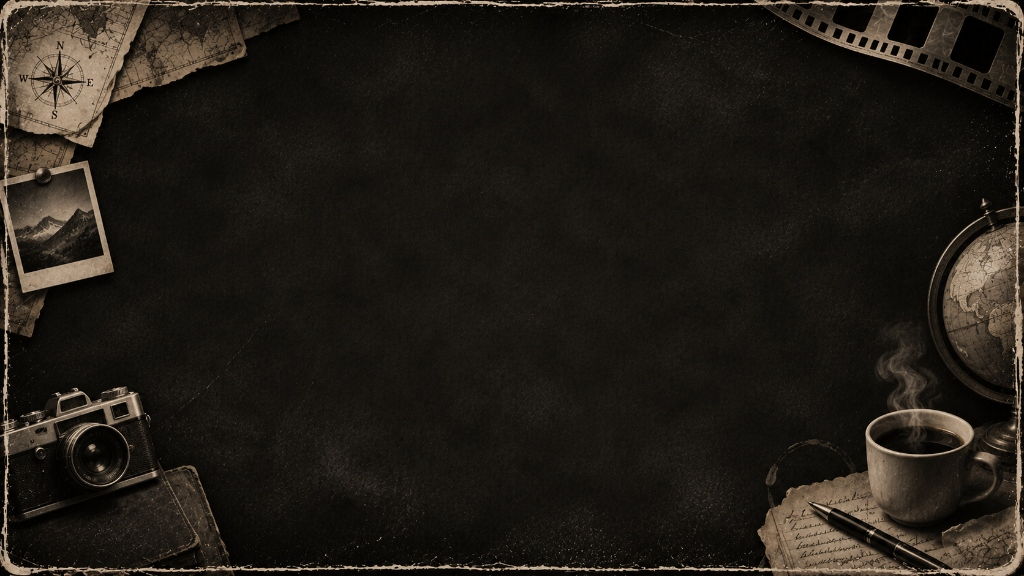
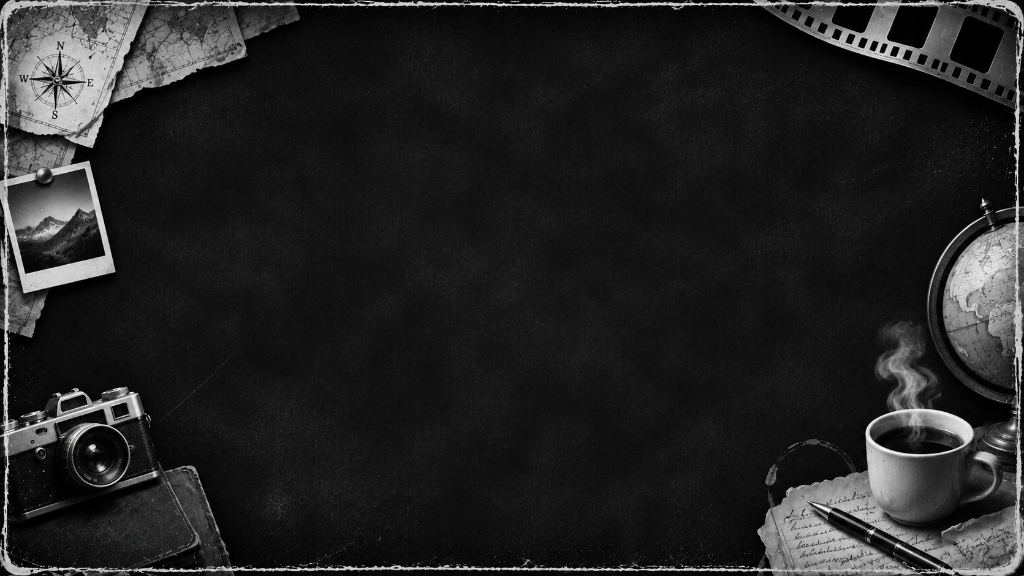
feat: add ProjectsSection component and background asset

Changed region(s): [[0.0, 0.0, 1.0, 1.0], [0.7812, 0.75, 0.8125, 0.7812]]

diff --git a/src/components/ProjectsSection.tsx b/src/components/ProjectsSection.tsx
@@ -168,15 +168,15 @@ export default function ProjectsSection() {
       </div>
 
       {/* 2. Single-Screen Container: Guaranteed to fit Heading, Cards, and Dots in 100vh with 0 overflow */}
-      <div className="relative z-10 w-full h-full flex flex-col justify-between px-3 sm:px-6 md:px-8 lg:px-12 py-3 sm:py-4 md:py-5 max-w-[1440px] mx-auto">
+      <div className="relative z-10 w-full h-full flex flex-col justify-between px-3 sm:px-6 md:px-8 lg:px-12 py-2 sm:py-3 md:py-4 max-w-[1480px] mx-auto">
         
-        {/* Top Header Row: Torn Paper Scrap Header "Projects" */}
+        {/* Top Header Row: Torn Paper Scrap Header "Projects" (Enlarged & Prominent) */}
         <motion.div
           initial={{ opacity: 0, y: 12 }}
           whileInView={{ opacity: 1, y: 0 }}
           viewport={{ once: true }}
           transition={{ duration: 0.5 }}
-          className="relative w-44 sm:w-52 md:w-60 lg:w-68 aspect-[1024/341] -rotate-1 origin-left shrink-0 ml-2 sm:ml-4 md:ml-6 mt-1 cursor-pointer"
+          className="relative w-56 sm:w-64 md:w-76 lg:w-88 xl:w-[380px] aspect-[1024/341] -rotate-1 origin-left shrink-0 ml-2 sm:ml-4 md:ml-6 mt-0.5 sm:mt-1 cursor-pointer"
           data-cursor="interactive"
           data-cursor-label="PROJECTS // GALLERY"
         >
@@ -198,7 +198,7 @@ export default function ProjectsSection() {
           onMouseLeave={() => {
             isHovered.current = false;
           }}
-          className="relative w-full max-w-full xl:max-w-[1360px] mx-auto my-auto flex items-center justify-center py-1 sm:py-2"
+          className="relative w-full max-w-full xl:max-w-[1400px] mx-auto my-auto flex items-center justify-center py-1 sm:py-2 -translate-y-4 sm:-translate-y-6 md:-translate-y-8 lg:-translate-y-9"
         >
           {/* Navigation Arrow: Left (Click or Press-and-Hold) */}
           <button
@@ -211,13 +211,13 @@ export default function ProjectsSection() {
             aria-label="Previous project (Click or Hold)"
             data-cursor="interactive"
             data-cursor-label="HOLD ◄"
-            className="absolute left-1 sm:left-2 md:left-4 lg:left-6 z-40 w-10 h-10 sm:w-11 sm:h-11 md:w-12 md:h-12 rounded-full bg-white text-zinc-950 flex items-center justify-center shadow-[0_6px_20px_rgba(0,0,0,0.95),0_0_15px_rgba(255,255,255,0.4)] hover:scale-115 active:scale-95 transition-all duration-200 cursor-pointer group select-none"
+            className="absolute left-1 sm:left-2 md:left-4 lg:left-6 z-40 w-11 h-11 sm:w-12 sm:h-12 md:w-13 md:h-13 rounded-full bg-white text-zinc-950 flex items-center justify-center shadow-[0_6px_20px_rgba(0,0,0,0.95),0_0_15px_rgba(255,255,255,0.4)] hover:scale-115 active:scale-95 transition-all duration-200 cursor-pointer group select-none"
           >
-            <ChevronLeft className="w-5 h-5 sm:w-6 sm:h-6 stroke-[2.4] group-hover:-translate-x-0.5 transition-transform" />
+            <ChevronLeft className="w-5 h-5 sm:w-6 sm:h-6 md:w-7 md:h-7 stroke-[2.4] group-hover:-translate-x-0.5 transition-transform" />
           </button>
 
           {/* Cards 3D Stage: All cards continuously mounted with smooth spring motion physics */}
-          <div className="relative w-full h-[250px] sm:h-[290px] md:h-[330px] lg:h-[370px] xl:h-[390px] flex items-center justify-center perspective-[1200px] overflow-visible">
+          <div className="relative w-full h-[290px] sm:h-[335px] md:h-[375px] lg:h-[415px] xl:h-[445px] flex items-center justify-center perspective-[1200px] overflow-visible">
             {projects.map((project, index) => {
               // Calculate relative circular offset: [-3, -2, -1, 0, 1, 2, 3]
               let offset = (index - currentIndex) % total;
@@ -289,7 +289,7 @@ export default function ProjectsSection() {
                   }}
                   data-cursor="project"
                   data-cursor-label={`${project.title.split("–")[0].trim().toUpperCase()} // EXPLORE`}
-                  className={`absolute w-[240px] sm:w-[280px] md:w-[310px] lg:w-[340px] xl:w-[360px] aspect-square rounded-2xl overflow-hidden border-2 transition-colors duration-300 ${
+                  className={`absolute w-[270px] sm:w-[315px] md:w-[355px] lg:w-[395px] xl:w-[425px] aspect-square rounded-2xl overflow-hidden border-2 transition-colors duration-300 ${
                     isCenter
                       ? "border-zinc-400/80 shadow-[0_18px_45px_rgba(0,0,0,0.95),0_0_24px_rgba(255,255,255,0.12)] cursor-grab active:cursor-grabbing bg-zinc-950"
                       : "border-zinc-700/60 shadow-[0_10px_35px_rgba(0,0,0,0.9)] cursor-pointer bg-zinc-950/80 hover:border-zinc-500"
@@ -301,7 +301,7 @@ export default function ProjectsSection() {
                     alt={project.title}
                     fill
                     priority={isCenter}
-                    sizes="(max-width: 768px) 320px, 440px"
+                    sizes="(max-width: 768px) 340px, 460px"
                     className="object-cover select-none pointer-events-none"
                   />
 
@@ -319,10 +319,10 @@ export default function ProjectsSection() {
                     }`}
                   >
                     <div className="flex-1 min-w-0 pr-2">
-                      <h3 className="font-typewriter font-bold text-sm sm:text-base md:text-lg text-white tracking-wide truncate">
+                      <h3 className="font-typewriter font-bold text-base sm:text-lg md:text-xl lg:text-2xl text-white tracking-wide truncate">
                         {project.title.split("–")[0].trim()}
                       </h3>
-                      <p className="font-typewriter text-zinc-300 text-xs sm:text-xs md:text-sm mt-0.5 leading-relaxed line-clamp-2">
+                      <p className="font-typewriter text-zinc-300 text-xs sm:text-sm md:text-[14.5px] mt-1 leading-relaxed line-clamp-2">
                         {project.description}
                       </p>
                     </div>
@@ -334,9 +334,9 @@ export default function ProjectsSection() {
                       data-cursor="interactive"
                       data-cursor-label="PROJECT // VIEW"
                       title={`View details for ${project.title}`}
-                      className="shrink-0 w-10 h-10 sm:w-11 sm:h-11 md:w-12 md:h-12 rounded-full bg-black/80 hover:bg-white text-white hover:text-black border border-white/50 hover:border-white shadow-[0_4px_16px_rgba(0,0,0,0.95),0_0_12px_rgba(255,255,255,0.3)] flex items-center justify-center transition-all duration-300 group/btn pointer-events-auto"
+                      className="shrink-0 w-11 h-11 sm:w-12 sm:h-12 md:w-13 md:h-13 rounded-full bg-black/80 hover:bg-white text-white hover:text-black border border-white/50 hover:border-white shadow-[0_4px_16px_rgba(0,0,0,0.95),0_0_12px_rgba(255,255,255,0.3)] flex items-center justify-center transition-all duration-300 group/btn pointer-events-auto"
                     >
-                      <ArrowRight className="w-4 h-4 sm:w-5 sm:h-5 group-hover/btn:translate-x-0.5 transition-transform" />
+                      <ArrowRight className="w-4 h-4 sm:w-5 sm:h-5 md:w-6 md:h-6 group-hover/btn:translate-x-0.5 transition-transform" />
                     </Link>
                   </div>
                 </motion.div>
@@ -355,14 +355,14 @@ export default function ProjectsSection() {
             aria-label="Next project (Click or Hold)"
             data-cursor="interactive"
             data-cursor-label="HOLD ►"
-            className="absolute right-1 sm:right-2 md:right-4 lg:right-6 z-40 w-10 h-10 sm:w-11 sm:h-11 md:w-12 md:h-12 rounded-full bg-white text-zinc-950 flex items-center justify-center shadow-[0_6px_20px_rgba(0,0,0,0.95),0_0_15px_rgba(255,255,255,0.4)] hover:scale-115 active:scale-95 transition-all duration-200 cursor-pointer group select-none"
+            className="absolute right-1 sm:right-2 md:right-4 lg:right-6 z-40 w-11 h-11 sm:w-12 sm:h-12 md:w-13 md:h-13 rounded-full bg-white text-zinc-950 flex items-center justify-center shadow-[0_6px_20px_rgba(0,0,0,0.95),0_0_15px_rgba(255,255,255,0.4)] hover:scale-115 active:scale-95 transition-all duration-200 cursor-pointer group select-none"
           >
-            <ChevronRight className="w-5 h-5 sm:w-6 sm:h-6 stroke-[2.4] group-hover:translate-x-0.5 transition-transform" />
+            <ChevronRight className="w-5 h-5 sm:w-6 sm:h-6 md:w-7 md:h-7 stroke-[2.4] group-hover:translate-x-0.5 transition-transform" />
           </button>
         </div>
 
         {/* 4. Carousel Pagination Indicator Dots */}
-        <div className="flex items-center justify-center gap-2.5 sm:gap-3 py-1 shrink-0">
+        <div className="flex items-center justify-center gap-2.5 sm:gap-3 py-1 shrink-0 -translate-y-3 sm:-translate-y-5 md:-translate-y-7 lg:-translate-y-8">
           {projects.map((proj, idx) => {
             const isActive = idx === currentIndex;
             return (
